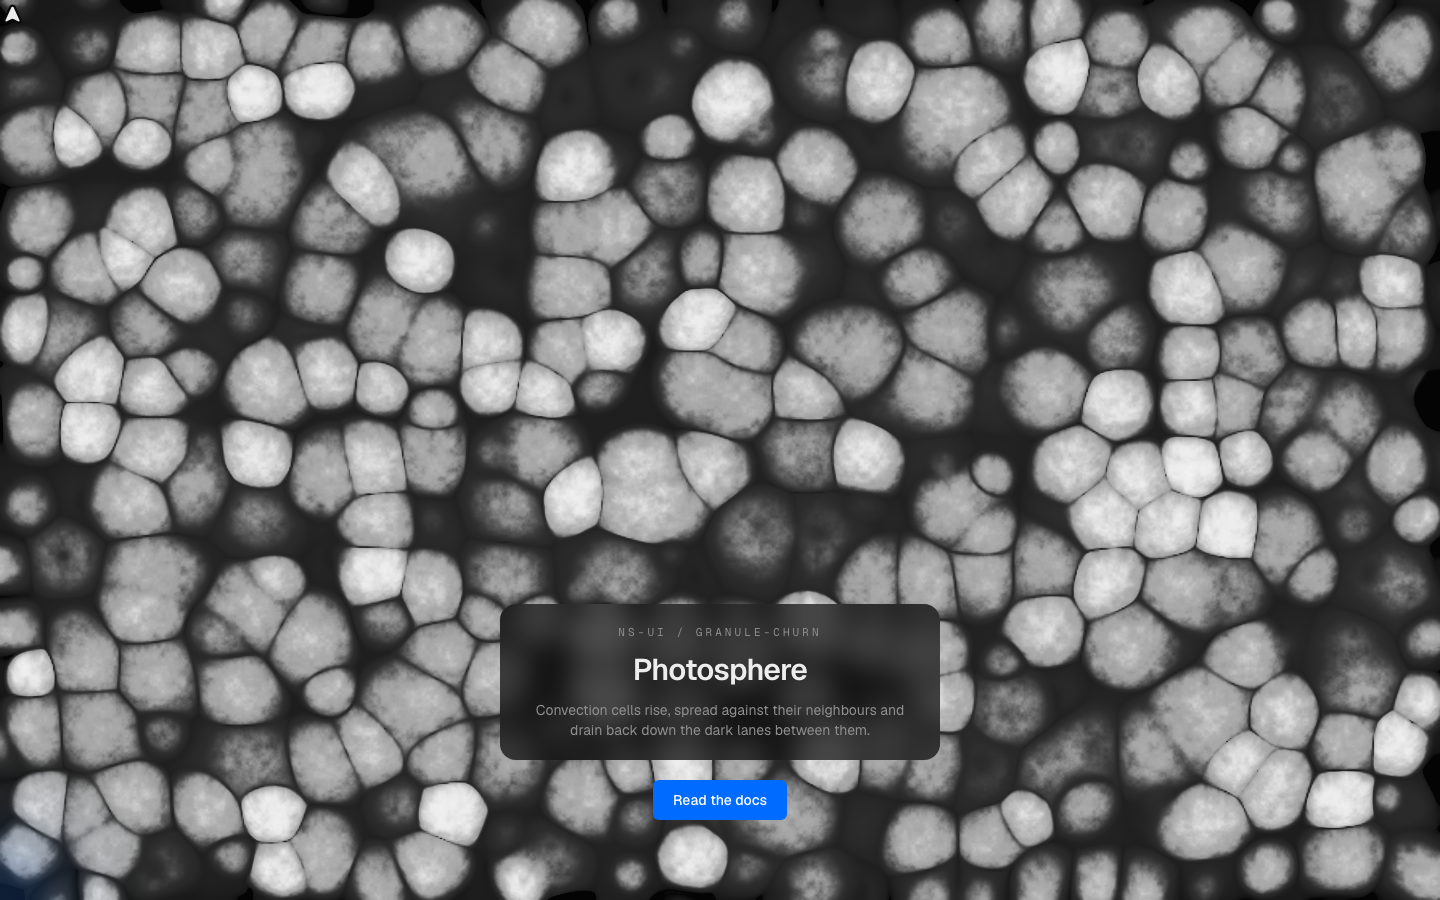
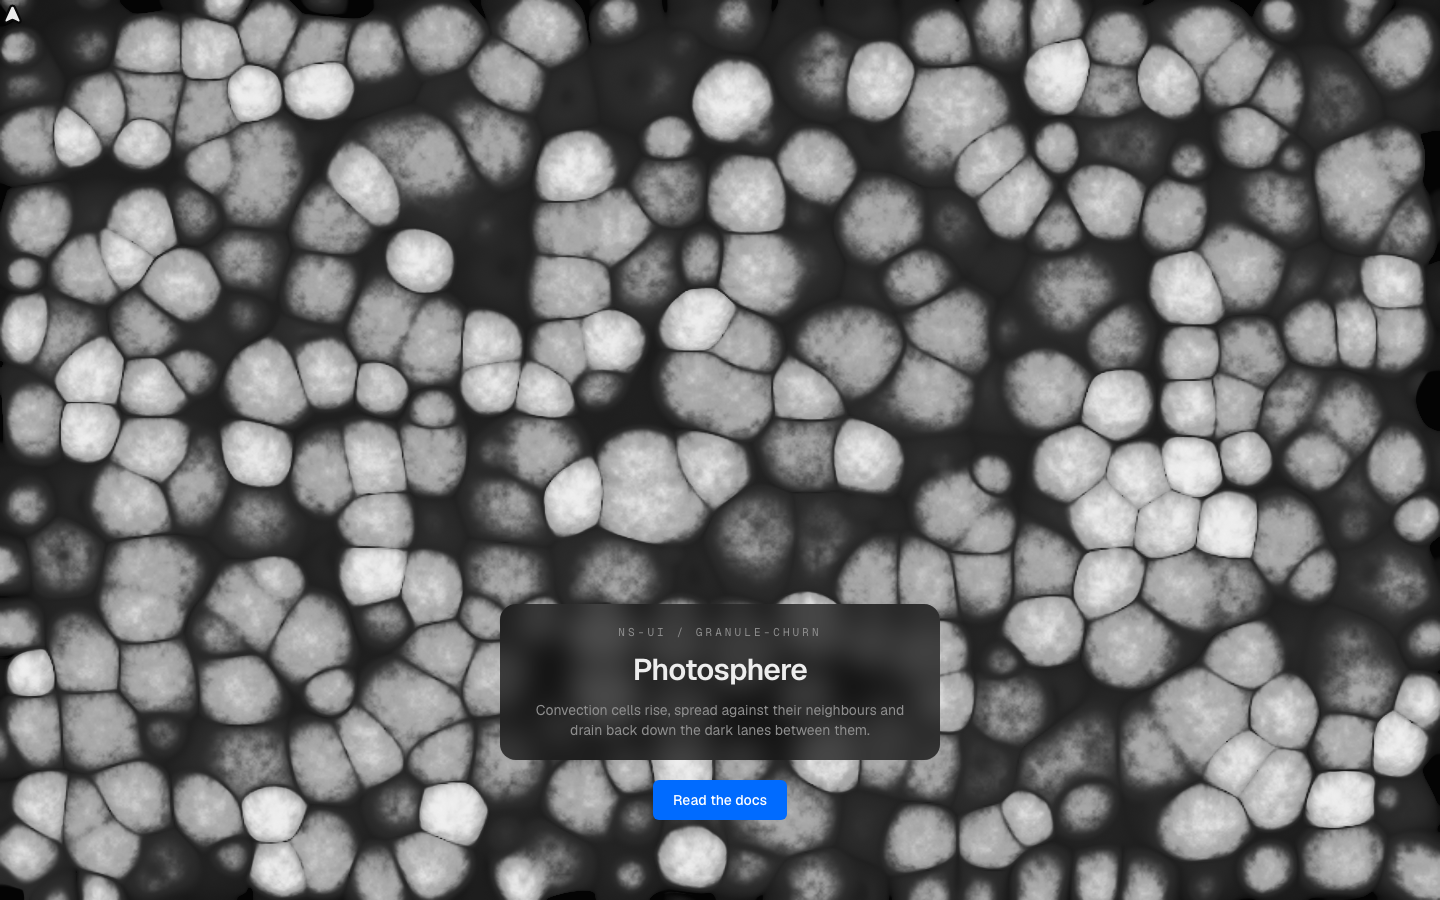
fix(granule-churn): pointer highlight in luminance, not accent
The freshness channel was mixed toward --ns-accent, and the verifier parks the
mouse at the origin, so a stationary tinted patch was baked into every default
screenshot. The highlight now adds to luminance instead — brighter, never
bluer. AGENTS.md reserves --ns-accent for interaction, and a resting
screenshot is not interaction.

Sampled across both themes: max channel difference 0 everywhere.

diff --git a/registry/loud/granule-churn/component.tsx b/registry/loud/granule-churn/component.tsx
@@ -26,7 +26,10 @@ import { useEffect, useRef } from "react";
 //      which is what actually darkens a lane rather than a painted stroke
 //   f  faculae — bright flecks seeded stochastically in the strongest
 //      downdrafts and carried along the lane they were born in
-//   a  pointer freshness — the only channel --ns-accent ever touches
+//   a  pointer freshness — lifts luminance under the cursor. Pure brightness,
+//      no hue: --ns-accent is reserved for interaction chrome elsewhere in the
+//      registry, and a resting frame (which is what every screenshot is) has
+//      no pointer "interacting" with it, so no accent belongs in this pass
 //
 // Birth and death are structural. Each lattice site runs its own period; when
 // a plume's envelope reaches zero its successor is born at a new jittered
@@ -303,7 +306,6 @@ uniform vec3 u_c1;
 uniform vec3 u_c2;
 uniform vec3 u_c3;
 uniform vec3 u_c4;
-uniform vec3 u_accent;
 uniform float u_bias;
 uniform float u_contrast;
 uniform float u_mottle;
@@ -402,6 +404,12 @@ void main() {
 
   L += f * 0.62;
 
+  // pointer freshness lifts luminance under the cursor, same ramp as
+  // everything else — brighter or dimmer depending where L already sits,
+  // never a hue laid on top. Folded in before the ramp so it also picks up
+  // contrast/bias like every other term, rather than being a flat overlay.
+  L += clamp(a, 0.0, 1.0) * 0.22;
+
   // a full-bleed surface should reach the edge of the frame. The vignette is
   // here only to stop the clamped border texels from reading as a hard cut,
   // so it starts late and lands shallow — at 0.09 it put visible black bands
@@ -412,8 +420,6 @@ void main() {
 
   L = clamp((L - 0.5) * u_contrast + 0.5 + u_bias, 0.0, 1.0);
   vec3 col = ramp(L);
-
-  col = mix(col, u_accent, clamp(a, 0.0, 1.0) * 0.36);
 
   // the low end of a full-bleed ramp is a very long flat gradient, which is
   // exactly where 8-bit banding shows
@@ -769,7 +775,6 @@ export function GranuleChurn({
     let c2: RGB = [0.42, 0.42, 0.44];
     let c3: RGB = [0.86, 0.86, 0.87];
     let c4: RGB = [1, 1, 1];
-    let accent: RGB = [0, 0.42, 1];
     let bias = 0;
     let contrast = 1.18;
     let mottle = 0.14;
@@ -787,7 +792,6 @@ export function GranuleChurn({
       const fg = parseColor(cs.getPropertyValue("--foreground")) ?? [0.09, 0.09, 0.09];
       const muted = parseColor(cs.getPropertyValue("--ns-muted")) ?? [0.55, 0.55, 0.55];
       const border = parseColor(cs.getPropertyValue("--border")) ?? [0.2, 0.2, 0.2];
-      accent = parseColor(cs.getPropertyValue("--ns-accent")) ?? [0, 0.42, 1];
       const black: RGB = [0, 0, 0];
       const white: RGB = [1, 1, 1];
       if (luminance(bg) < 0.5) {
@@ -800,7 +804,6 @@ export function GranuleChurn({
         bias = -0.04;
         contrast = 1.2;
         mottle = 0.17;
-        accent = mixRGB(accent, white, 0.2);
       } else {
         // the negative: pale lanes, graphite granules, and the darkest stop
         // held well off black so the field reads as inked paper
@@ -812,7 +815,6 @@ export function GranuleChurn({
         bias = 0.02;
         contrast = 1.14;
         mottle = 0.15;
-        accent = mixRGB(accent, bg, 0.35);
       }
     };
     readColors();
@@ -857,7 +859,6 @@ export function GranuleChurn({
       surface.v3("u_c2", c2);
       surface.v3("u_c3", c3);
       surface.v3("u_c4", c4);
-      surface.v3("u_accent", accent);
       surface.f("u_bias", bias);
       surface.f("u_contrast", contrast);
       surface.f("u_mottle", mottle);
